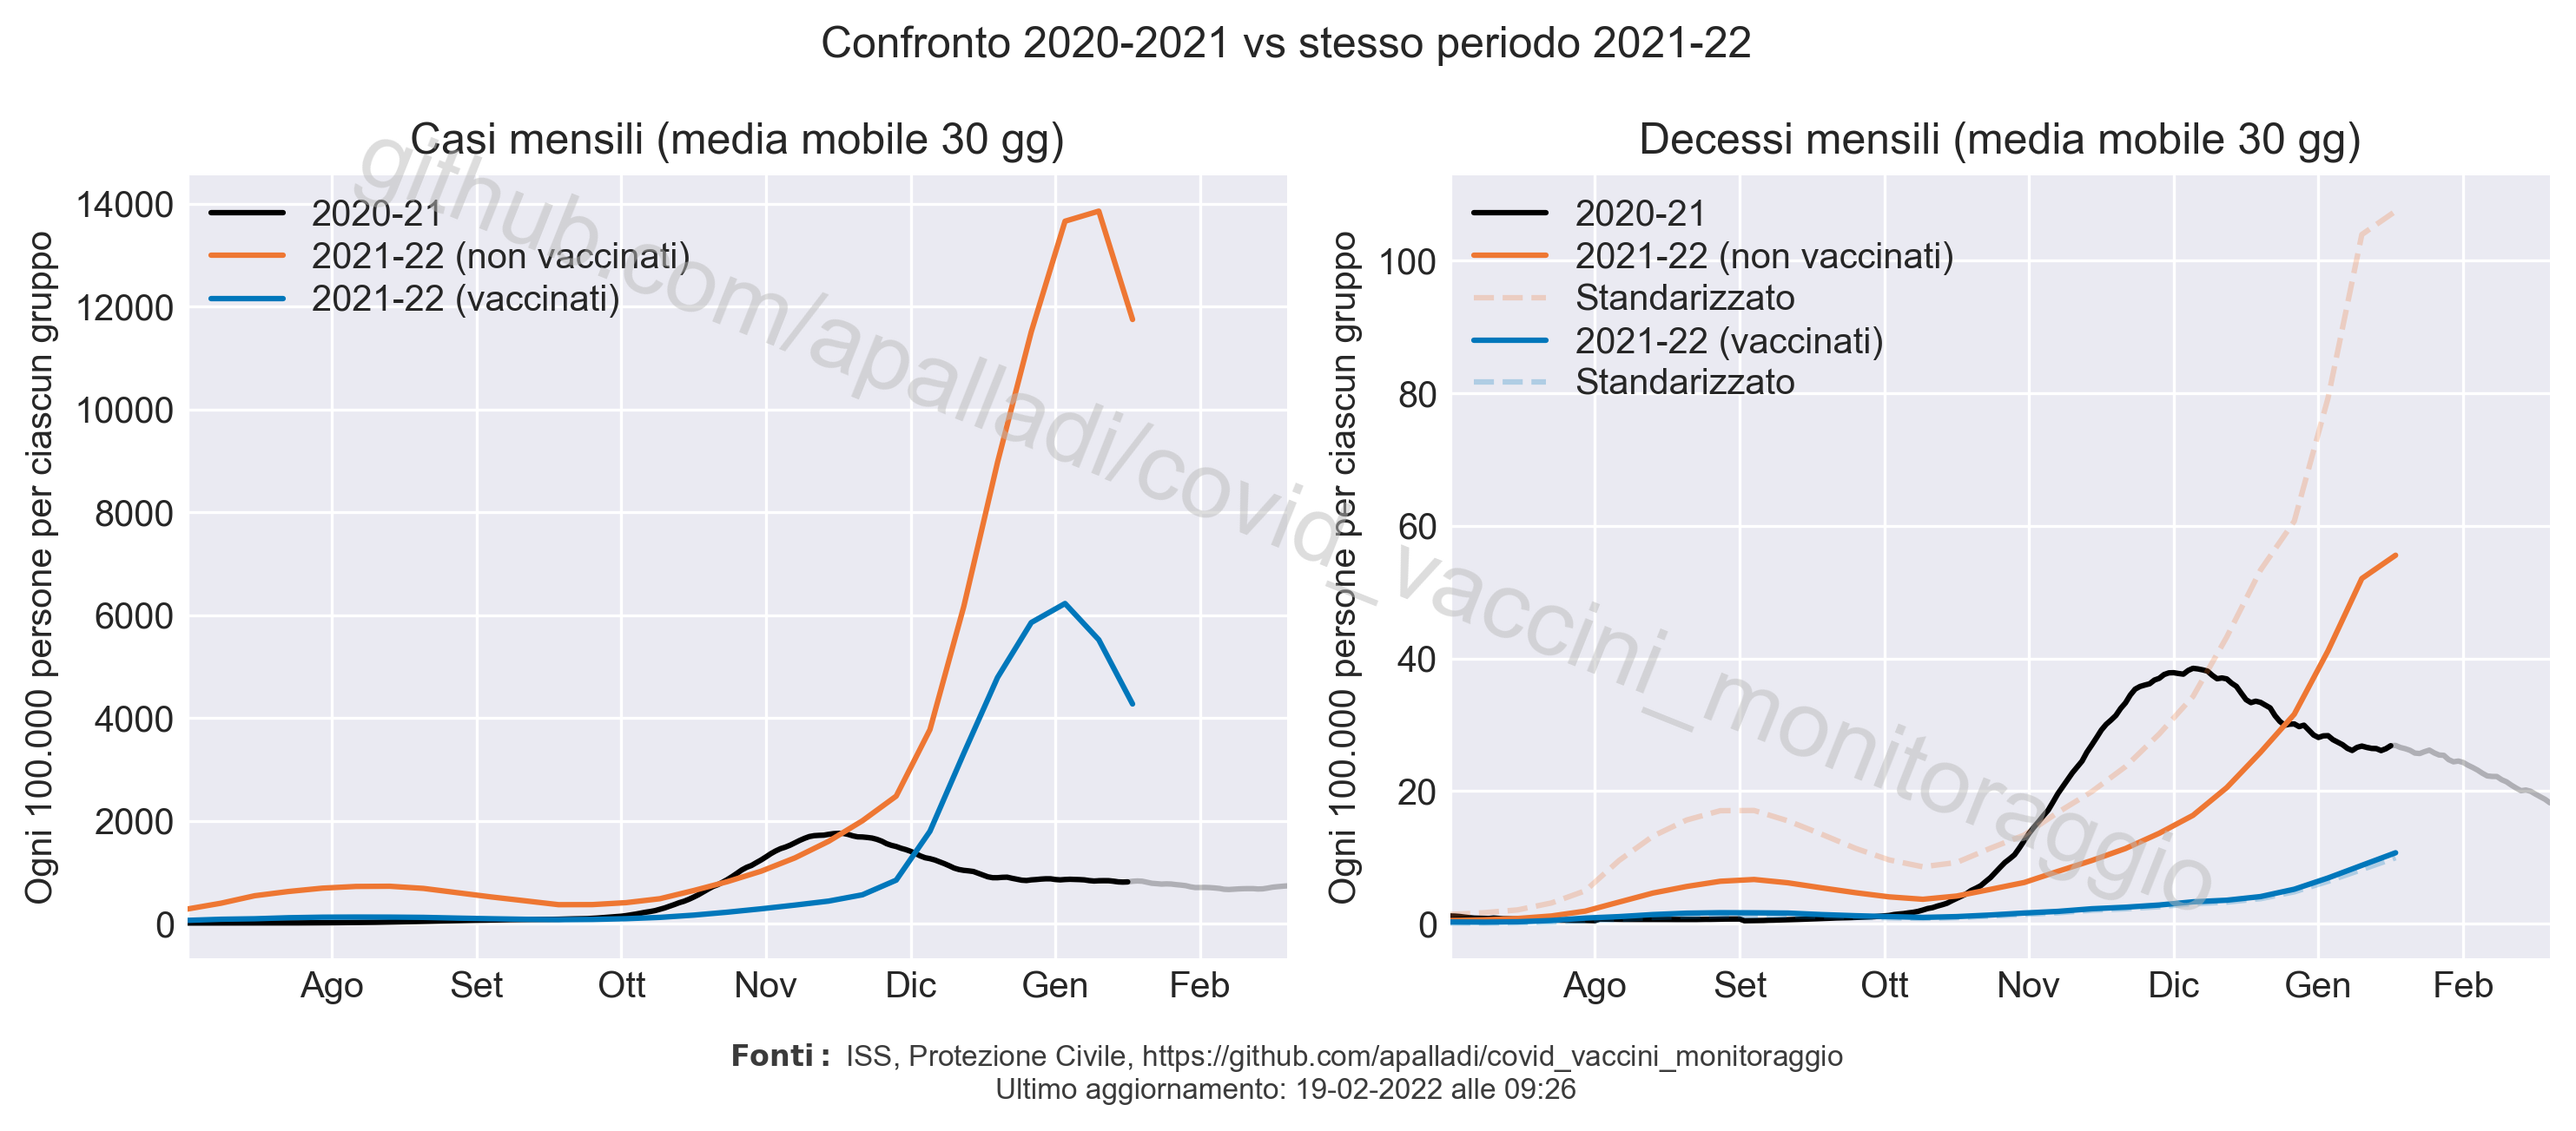
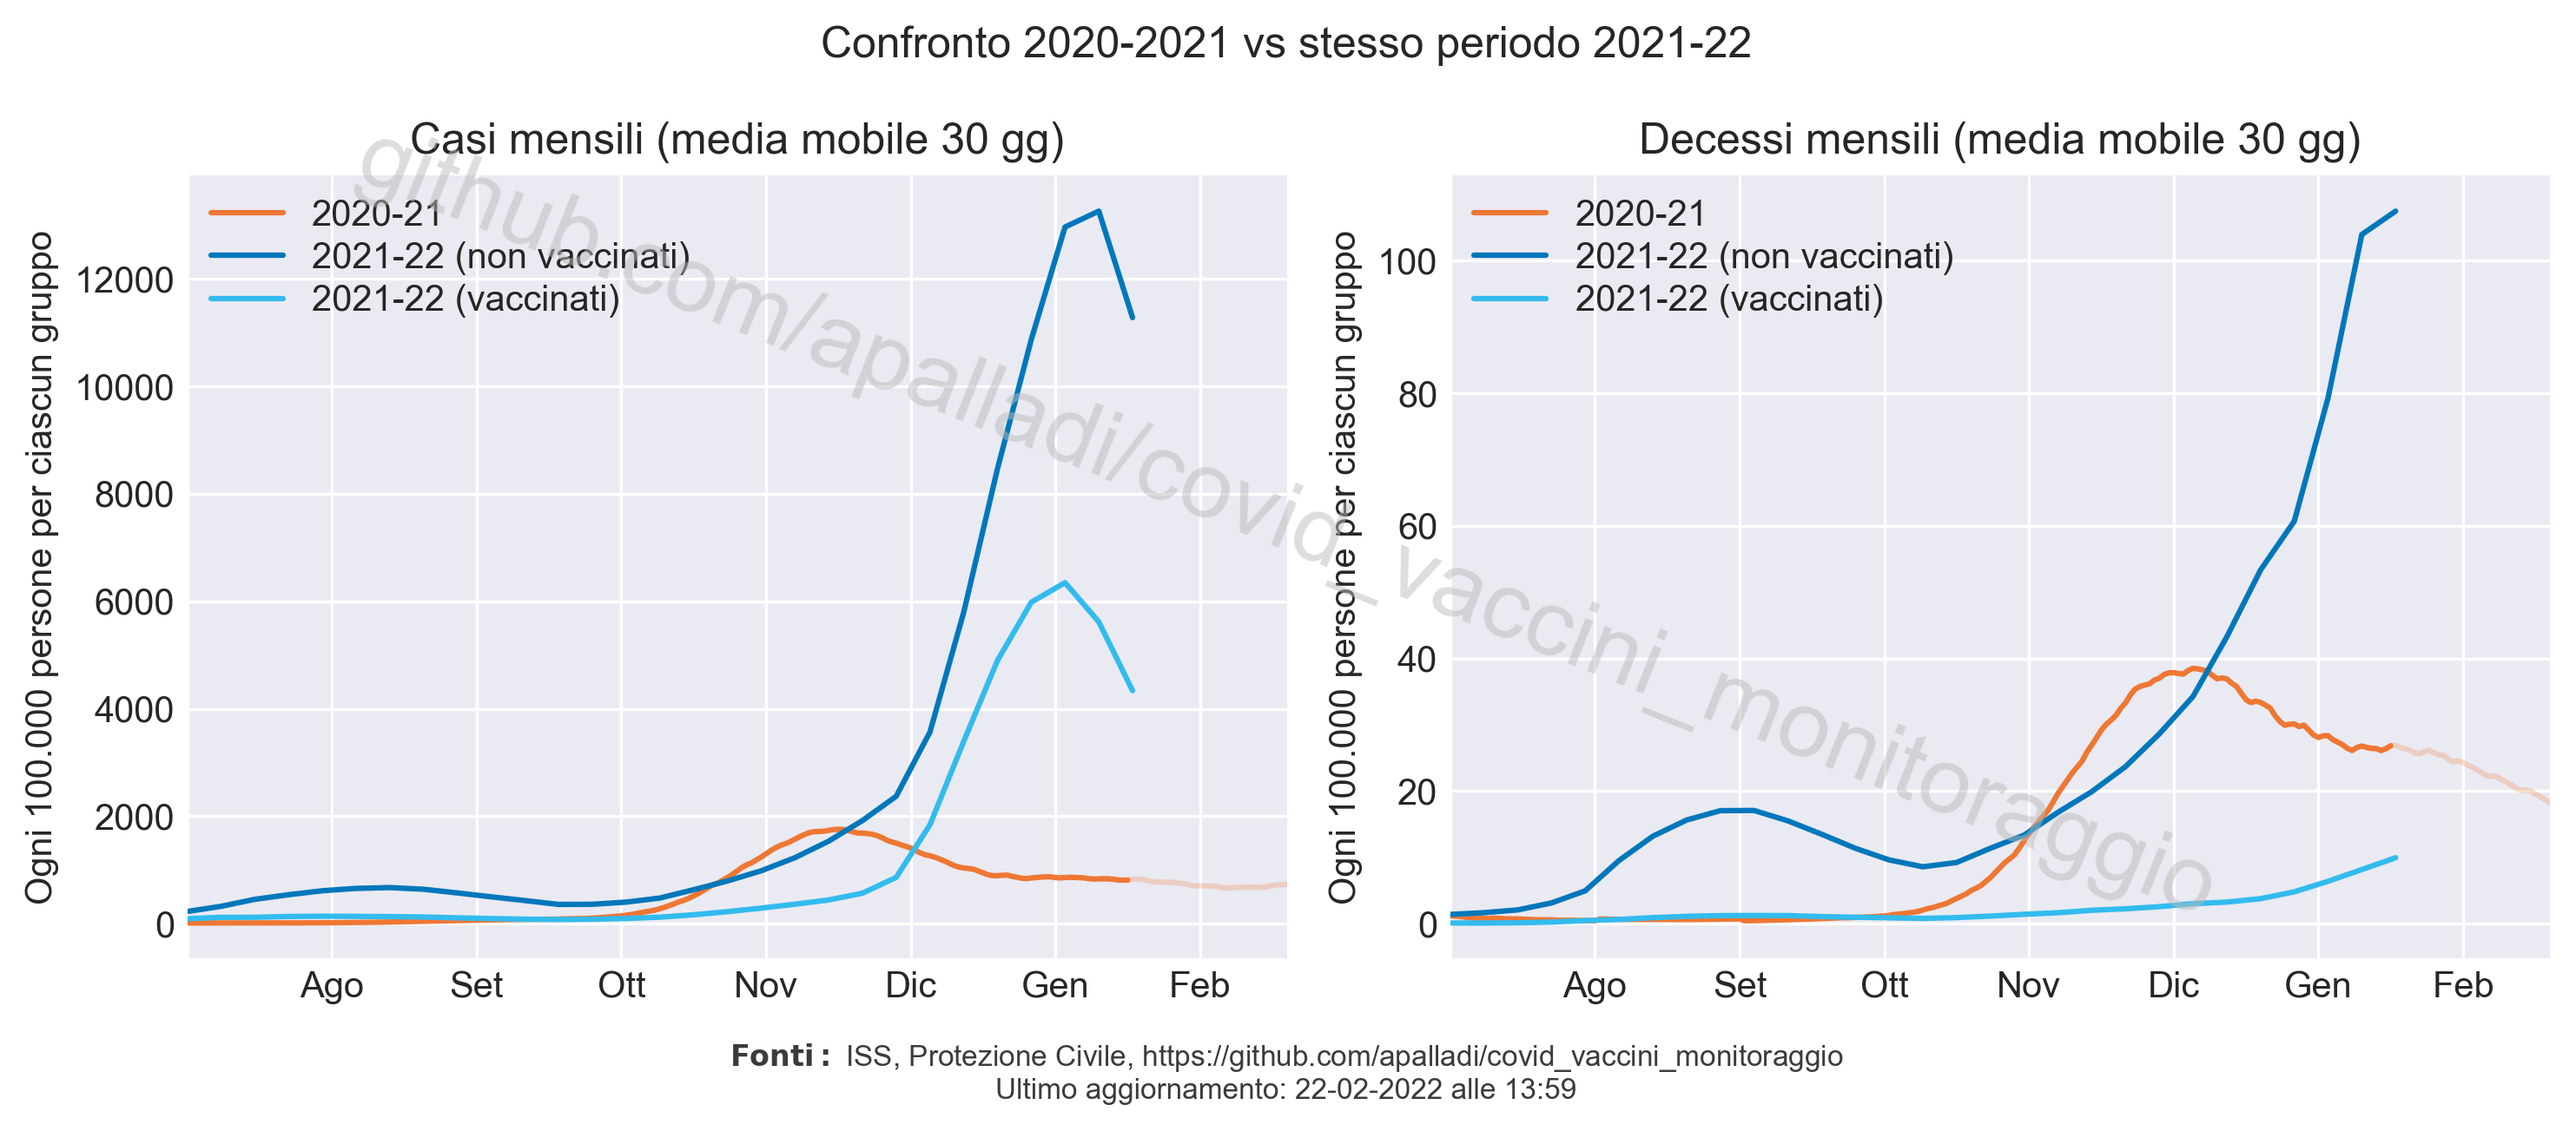
Confronti 2020-2021: utilizzo tasso standardizzato

diff --git a/scripts/confronto_2020_2021.py b/scripts/confronto_2020_2021.py
@@ -10,9 +10,7 @@ import numpy as np
 import pandas as pd
 
 from custom.plots import apply_plot_treatment, palette
-from custom.preprocessing_dataframe import (compute_incidence,
-                                            compute_incidence_std,
-                                            get_df_complessivo,
+from custom.preprocessing_dataframe import (compute_incidence_std,
                                             get_df_popolazione)
 from custom.watermarks import add_last_updated, add_watermark
 
@@ -26,18 +24,11 @@ def import_data():
     df_IT = pd.read_csv(url,
                         parse_dates=["data"],
                         index_col="data")
-    df_epid, df_pop = get_df_complessivo()
-
-    # Ricava i tassi, dividendo per la popolazione vaccinati e non vaccinata
-    df_tassi = compute_incidence(df_epid, df_pop)
-
-    df_tassi.index = pd.to_datetime(df_epid["data"])
-    df_tassi = df_tassi.iloc[::-1]
 
     # Ricava i tassi standardizzati per fascia di età
     df_tassi_std = compute_incidence_std().iloc[::-1]
 
-    return df_IT, df_epid, df_tassi, df_tassi_std
+    return df_IT, df_tassi_std
 
 
 def get_epidemic_data_2020():
@@ -65,14 +56,13 @@ def get_epidemic_data_2020():
     return casi_2020, dec_2020, x_ticks, x_labels
 
 
-def get_epidemic_data_2021(is_std=False):
+def get_epidemic_data_2021():
     """ Importa dati epidemiologici 2021 """
 
-    tassi = df_tassi_std if is_std else df_tassi
-    casi_2021_vacc = tassi["Casi, vaccinati completo"]
-    casi_2021_novacc = tassi["Casi, non vaccinati"]
-    dec_2021_vacc = tassi["Deceduti, vaccinati completo"]
-    dec_2021_novacc = tassi["Deceduti, non vaccinati"]
+    casi_2021_vacc = df_tassi_std["Casi, vaccinati completo"]
+    casi_2021_novacc = df_tassi_std["Casi, non vaccinati"]
+    dec_2021_vacc = df_tassi_std["Deceduti, vaccinati completo"]
+    dec_2021_novacc = df_tassi_std["Deceduti, non vaccinati"]
     return casi_2021_vacc, casi_2021_novacc, dec_2021_vacc, dec_2021_novacc
 
 
@@ -94,27 +84,22 @@ def plot_confronto_2020_2021(show=False):
 
     xgrid_2020 = np.arange(0, len(casi_2020))
     xgrid_2021 = np.arange(0, 7*len(casi_2021_vacc), 7)
-    xgrid_2021_std = np.arange(0, 7*len(dec_2021_vacc_std), 7)
 
     # Casi e decessi 2021
     fig, ax = plt.subplots(nrows=1, ncols=2, figsize=(10, 4))
     axes = ax.ravel()
 
-    axes[0].plot(xgrid_2020[:xgrid_2021[-1]], casi_2020[:xgrid_2021[-1]], label="2020-21", color="black")
-    axes[0].plot(xgrid_2020[xgrid_2021[-2]:], casi_2020[xgrid_2021[-2]:], color="black", alpha=0.25)
+    axes[0].plot(xgrid_2020[:xgrid_2021[-1]], casi_2020[:xgrid_2021[-1]], label="2020-21")
+    axes[0].plot(xgrid_2020[xgrid_2021[-2]:], casi_2020[xgrid_2021[-2]:], color=palette[0], alpha=0.25)
     axes[0].plot(xgrid_2021, casi_2021_novacc, label="2021-22 (non vaccinati)")
     axes[0].plot(xgrid_2021, casi_2021_vacc, label="2021-22 (vaccinati)")
 
     which_axe(axes[0])
 
-    axes[1].plot(xgrid_2020[:xgrid_2021[-1]], dec_2020[:xgrid_2021[-1]], label="2020-21", color="black")
-    axes[1].plot(xgrid_2020[xgrid_2021[-2]:], dec_2020[xgrid_2021[-2]:], color="black", alpha=0.25)
+    axes[1].plot(xgrid_2020[:xgrid_2021[-1]], dec_2020[:xgrid_2021[-1]], label="2020-21")
+    axes[1].plot(xgrid_2020[xgrid_2021[-2]:], dec_2020[xgrid_2021[-2]:], color=palette[0], alpha=0.25)
     axes[1].plot(xgrid_2021, dec_2021_novacc, label="2021-22 (non vaccinati)")
-    axes[1].plot(xgrid_2021_std, dec_2021_novacc_std, color=palette[0], alpha=0.25,
-                 label="Standarizzato", linestyle="--")
     axes[1].plot(xgrid_2021, dec_2021_vacc, label="2021-22 (vaccinati)")
-    axes[1].plot(xgrid_2021_std, dec_2021_vacc_std, color=palette[1], alpha=0.25,
-                 label="Standarizzato", linestyle="--")
 
     which_axe(axes[1], title="Decessi")
 
@@ -143,17 +128,16 @@ if __name__ == "__main__":
     # Imposta stile grafici
     apply_plot_treatment()
 
-    df_IT, df_epid, df_tassi, df_tassi_std = import_data()
+    df_IT, df_tassi_std = import_data()
 
     # Calcola data fine df 2020-21
     # E' il primo giorno del mese successivo alla data dell'ultimo report
-    end_date = df_tassi.index[-1].date().replace(year=2021)
+    end_date = df_tassi_std.index[-1].date().replace(year=2021)
     end_date = end_date.replace(day=monthrange(end_date.year, end_date.month)[1])\
         + timedelta(days=1)
 
     casi_2020, dec_2020, x_ticks, x_labels = get_epidemic_data_2020()
     casi_2021_vacc, casi_2021_novacc, dec_2021_vacc, dec_2021_novacc = get_epidemic_data_2021()
-    _, _, dec_2021_vacc_std, dec_2021_novacc_std = get_epidemic_data_2021(is_std=True)
 
     # Plot data
     plot_confronto_2020_2021()

diff --git a/README.md b/README.md
@@ -31,8 +31,7 @@ Nell'environment virtuale è possibile installare automaticamente i pacchetti ri
 
 ## Utilizzo e spiegazione degli script
 
-Lo script [**`dati/dati_selezione.py`**](https://github.com/apalladi/covid_vaccini_monitoraggio/blob/main/dati/dati_selezione.py) estrae i dati per l'analisi a partire dal report selezionato. I dati epidemiologici e delle popolazioni di riferimento vengono salvati in [dati/dati_ISS_complessivi.xlsx](https://github.com/apalladi/covid_vaccini_monitoraggio/blob/main/dati/dati_ISS_complessivi.xlsx) mentre quelli suddivisi per età in [dati/dati_ISS_età.xlsx](https://github.com/apalladi/covid_vaccini_monitoraggio/blob/main/dati/dati_ISS_età.xlsx).<br/>
-Nota sulle popolazioni di riferimento: si considera un ritardo medio stimato di due settimane per ospedalizzazioni e ricoveri in TI e di tre settimane per i decessi.
+Lo script [**`dati/dati_selezione.py`**](https://github.com/apalladi/covid_vaccini_monitoraggio/blob/main/dati/dati_selezione.py) estrae i dati per l'analisi a partire dal report selezionato. I dati epidemiologici e delle popolazioni di riferimento vengono salvati in [dati/dati_ISS_complessivi.xlsx](https://github.com/apalladi/covid_vaccini_monitoraggio/blob/main/dati/dati_ISS_complessivi.xlsx) mentre quelli suddivisi per età in [dati/dati_ISS_età.xlsx](https://github.com/apalladi/covid_vaccini_monitoraggio/blob/main/dati/dati_ISS_età.xlsx)[^1].
 
 Lo script è stato aggiornato il [10/11/2021](https://www.epicentro.iss.it/coronavirus/bollettino/Bollettino-sorveglianza-integrata-COVID-19_10-novembre-2021.pdf) per includere i vaccinati con dose aggiuntiva.
 Sono necessari ghostscript e tkinker per il corretto funzionamento di [camelot](https://camelot-py.readthedocs.io/en/master/user/install-deps.html).
@@ -41,7 +40,7 @@ Sono necessari ghostscript e tkinker per il corretto funzionamento di [camelot](
 I dati possono essere analizzati mediante i seguenti script:
 
 
-- [**`scripts/andamento_epidemia.py`**:](https://github.com/apalladi/covid_vaccini_monitoraggio/blob/main/scripts/andamento_epidemia.py) calcola le curve epidemiche relative a nuovi casi, ospedalizzati, ricoverati in terapia intensiva e deceduti, divise per vaccinati e non vaccinati. Le curve epidemiche sono rapportate al numero di vaccinati e non vaccinati, in ogni intervallo temporale. In questo modo è possibile calcolare i tassi grezzi e i tassi standardizzati. Data la sproporzione tra il numero di vaccinati e non vaccinati, i numeri assoluti risultano infatti poco utili per monitare l'andamento dell'epidemia. 
+- [**`scripts/andamento_epidemia.py`**:](https://github.com/apalladi/covid_vaccini_monitoraggio/blob/main/scripts/andamento_epidemia.py) calcola le curve epidemiche relative a nuovi casi, ospedalizzati, ricoverati in terapia intensiva e deceduti, divise per vaccinati e non vaccinati. Le curve epidemiche sono rapportate al numero di vaccinati e non vaccinati, in ogni intervallo temporale. In questo modo è possibile calcolare i tassi standardizzati (aggiustati per fascia di età[^2]). Data la sproporzione tra il numero di vaccinati e non vaccinati, i numeri assoluti risultano infatti poco utili per monitare l'andamento dell'epidemia. 
 
 
 - [**`scripts/andamento_rapporti_incidenze.py`**:](https://github.com/apalladi/covid_vaccini_monitoraggio/blob/main/scripts/andamento_rapporti_incidenze.py) calcola il contributo dei non vaccinati rispetto all’incidenza totale nelle varie fasce di età.
@@ -59,3 +58,8 @@ I dati possono essere analizzati mediante i seguenti script:
 Per eseguire un aggiornamento generale, utilizzare il seguente comando dalla directory principale:
 
 `./update_all.sh`
+
+
+[^1]: Nota sulle popolazioni di riferimento: si considera un ritardo medio stimato di due settimane per ospedalizzazioni e ricoveri in TI e di tre settimane per i decessi.
+
+[^2]: Si ottengono moltiplicando ciascun tasso specifico per classe di età - ossia il rapporto tra la numerosità dell’evento considerato e la popolazione di riferimento del report - per la numerosità della popolazione standard della stessa classe di età; sommando questi prodotti e dividendo tutto per il totale delle popolazioni standard (over 12) si ottiene il tasso di incidenza standardizzato.
